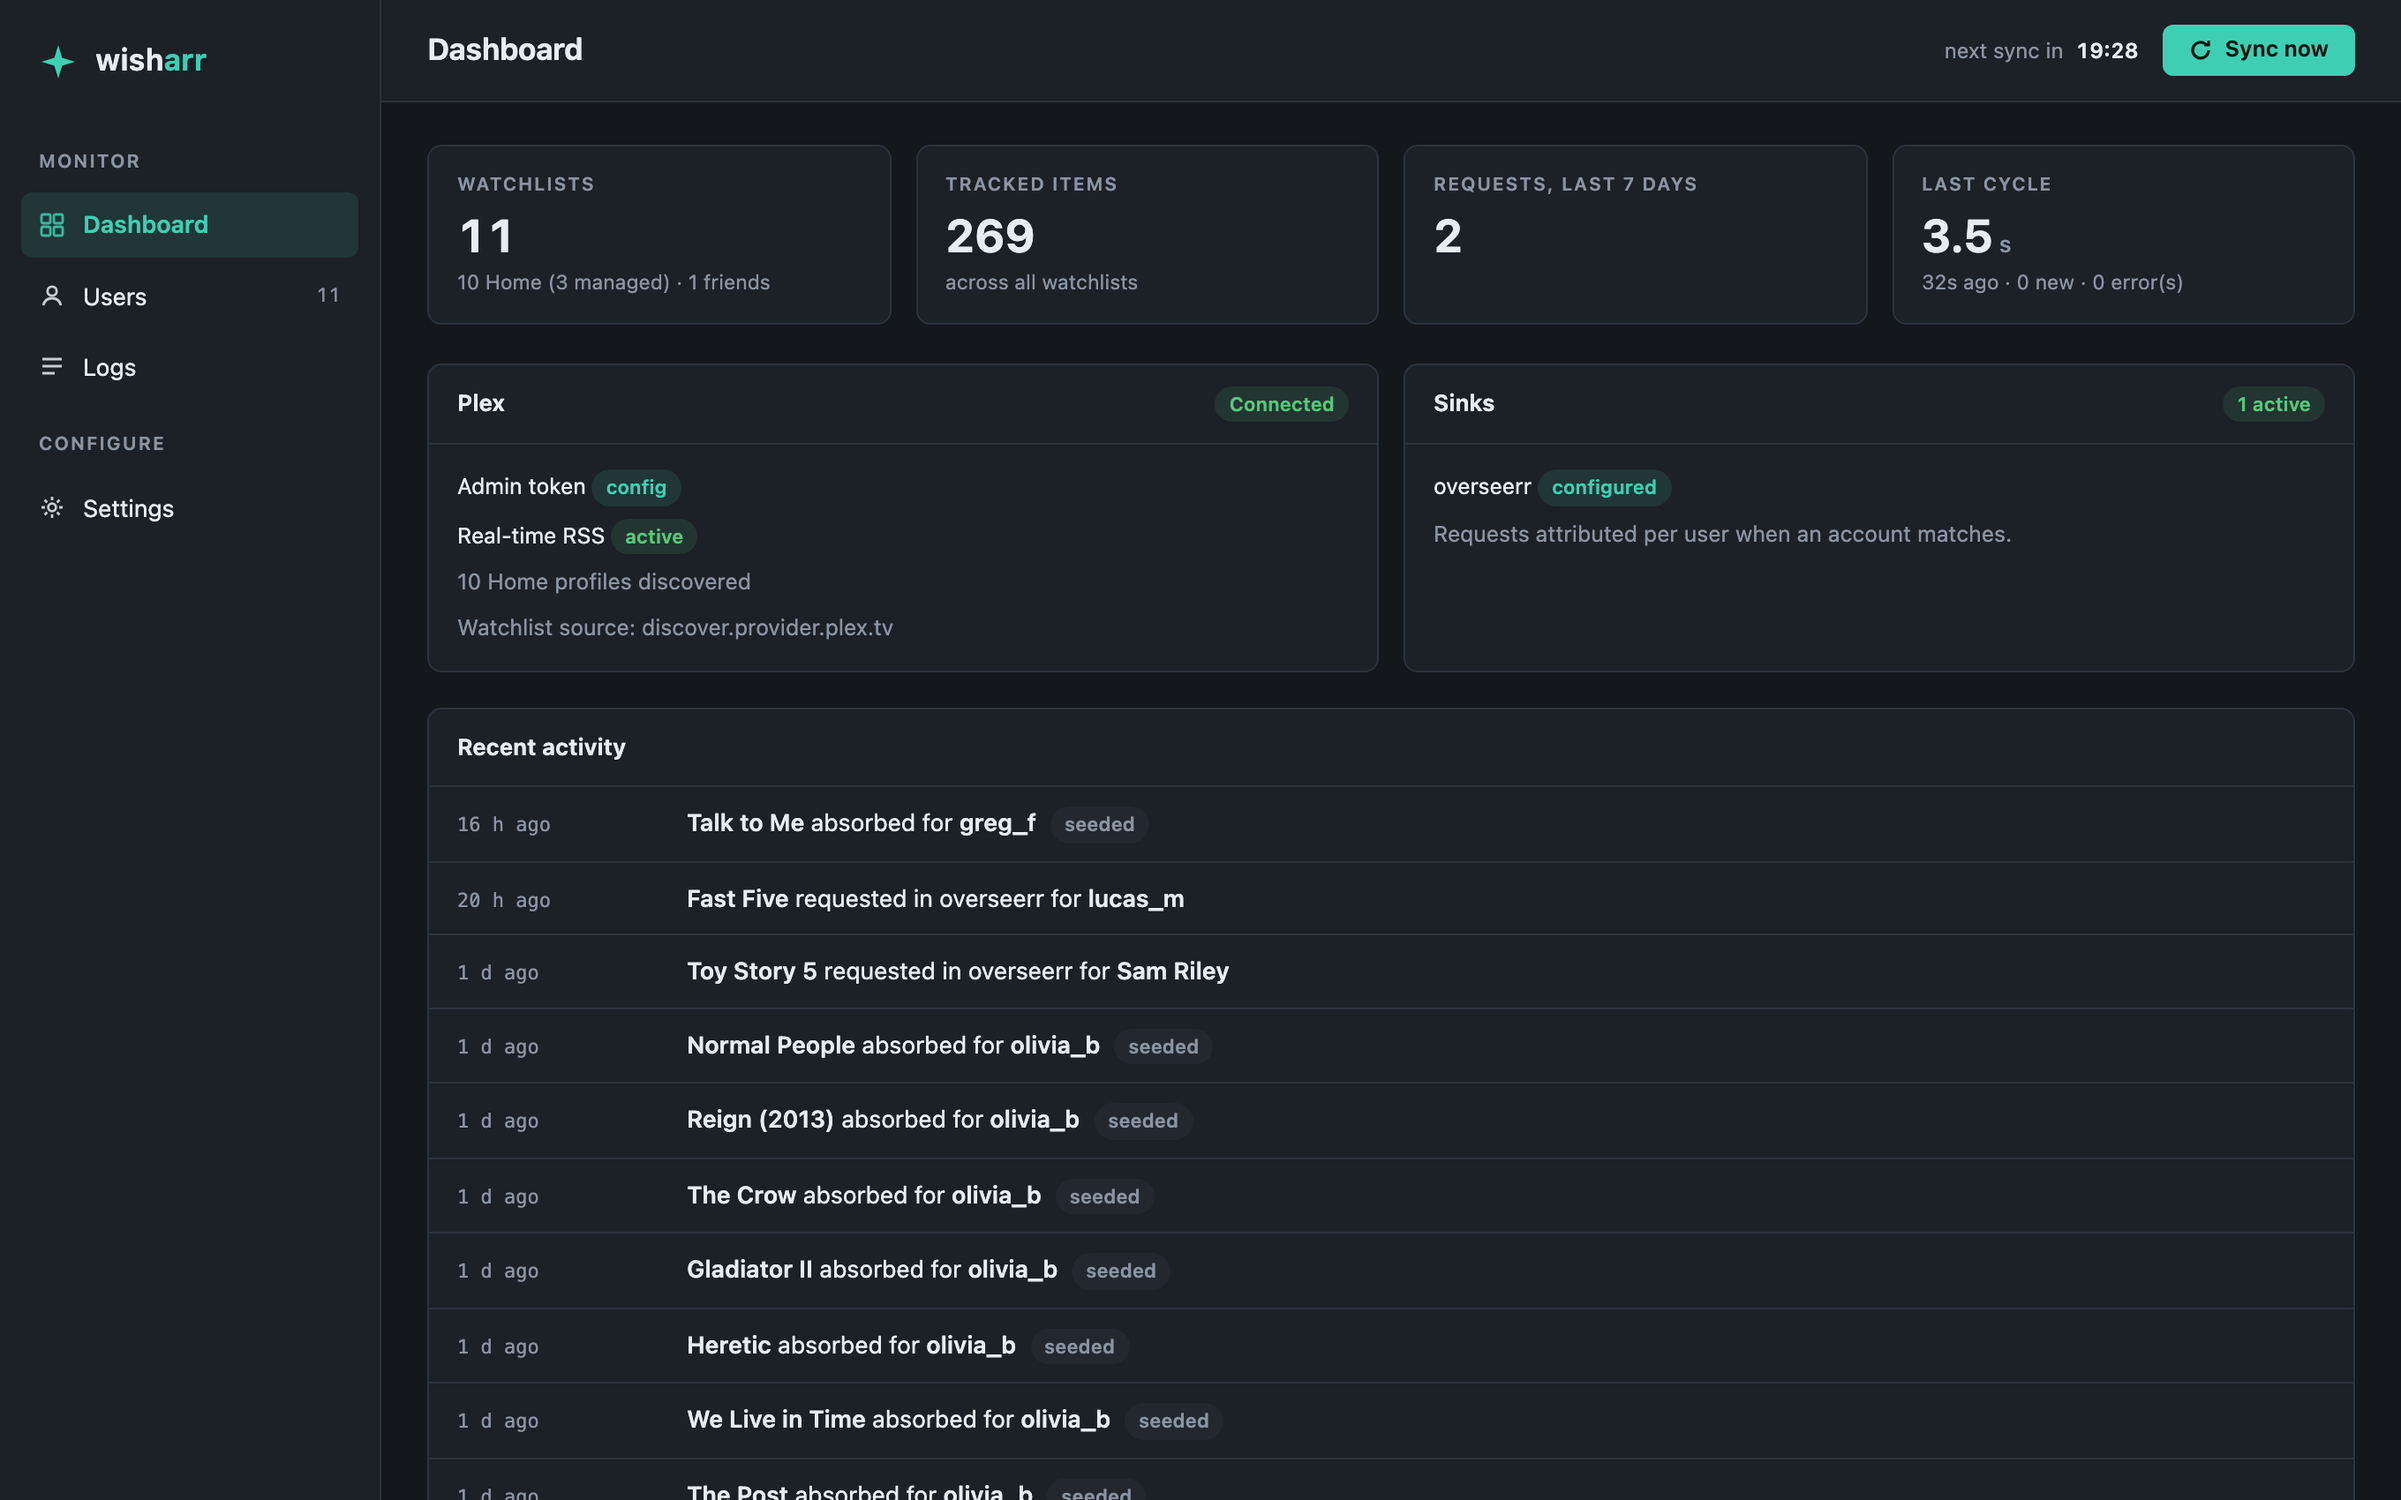
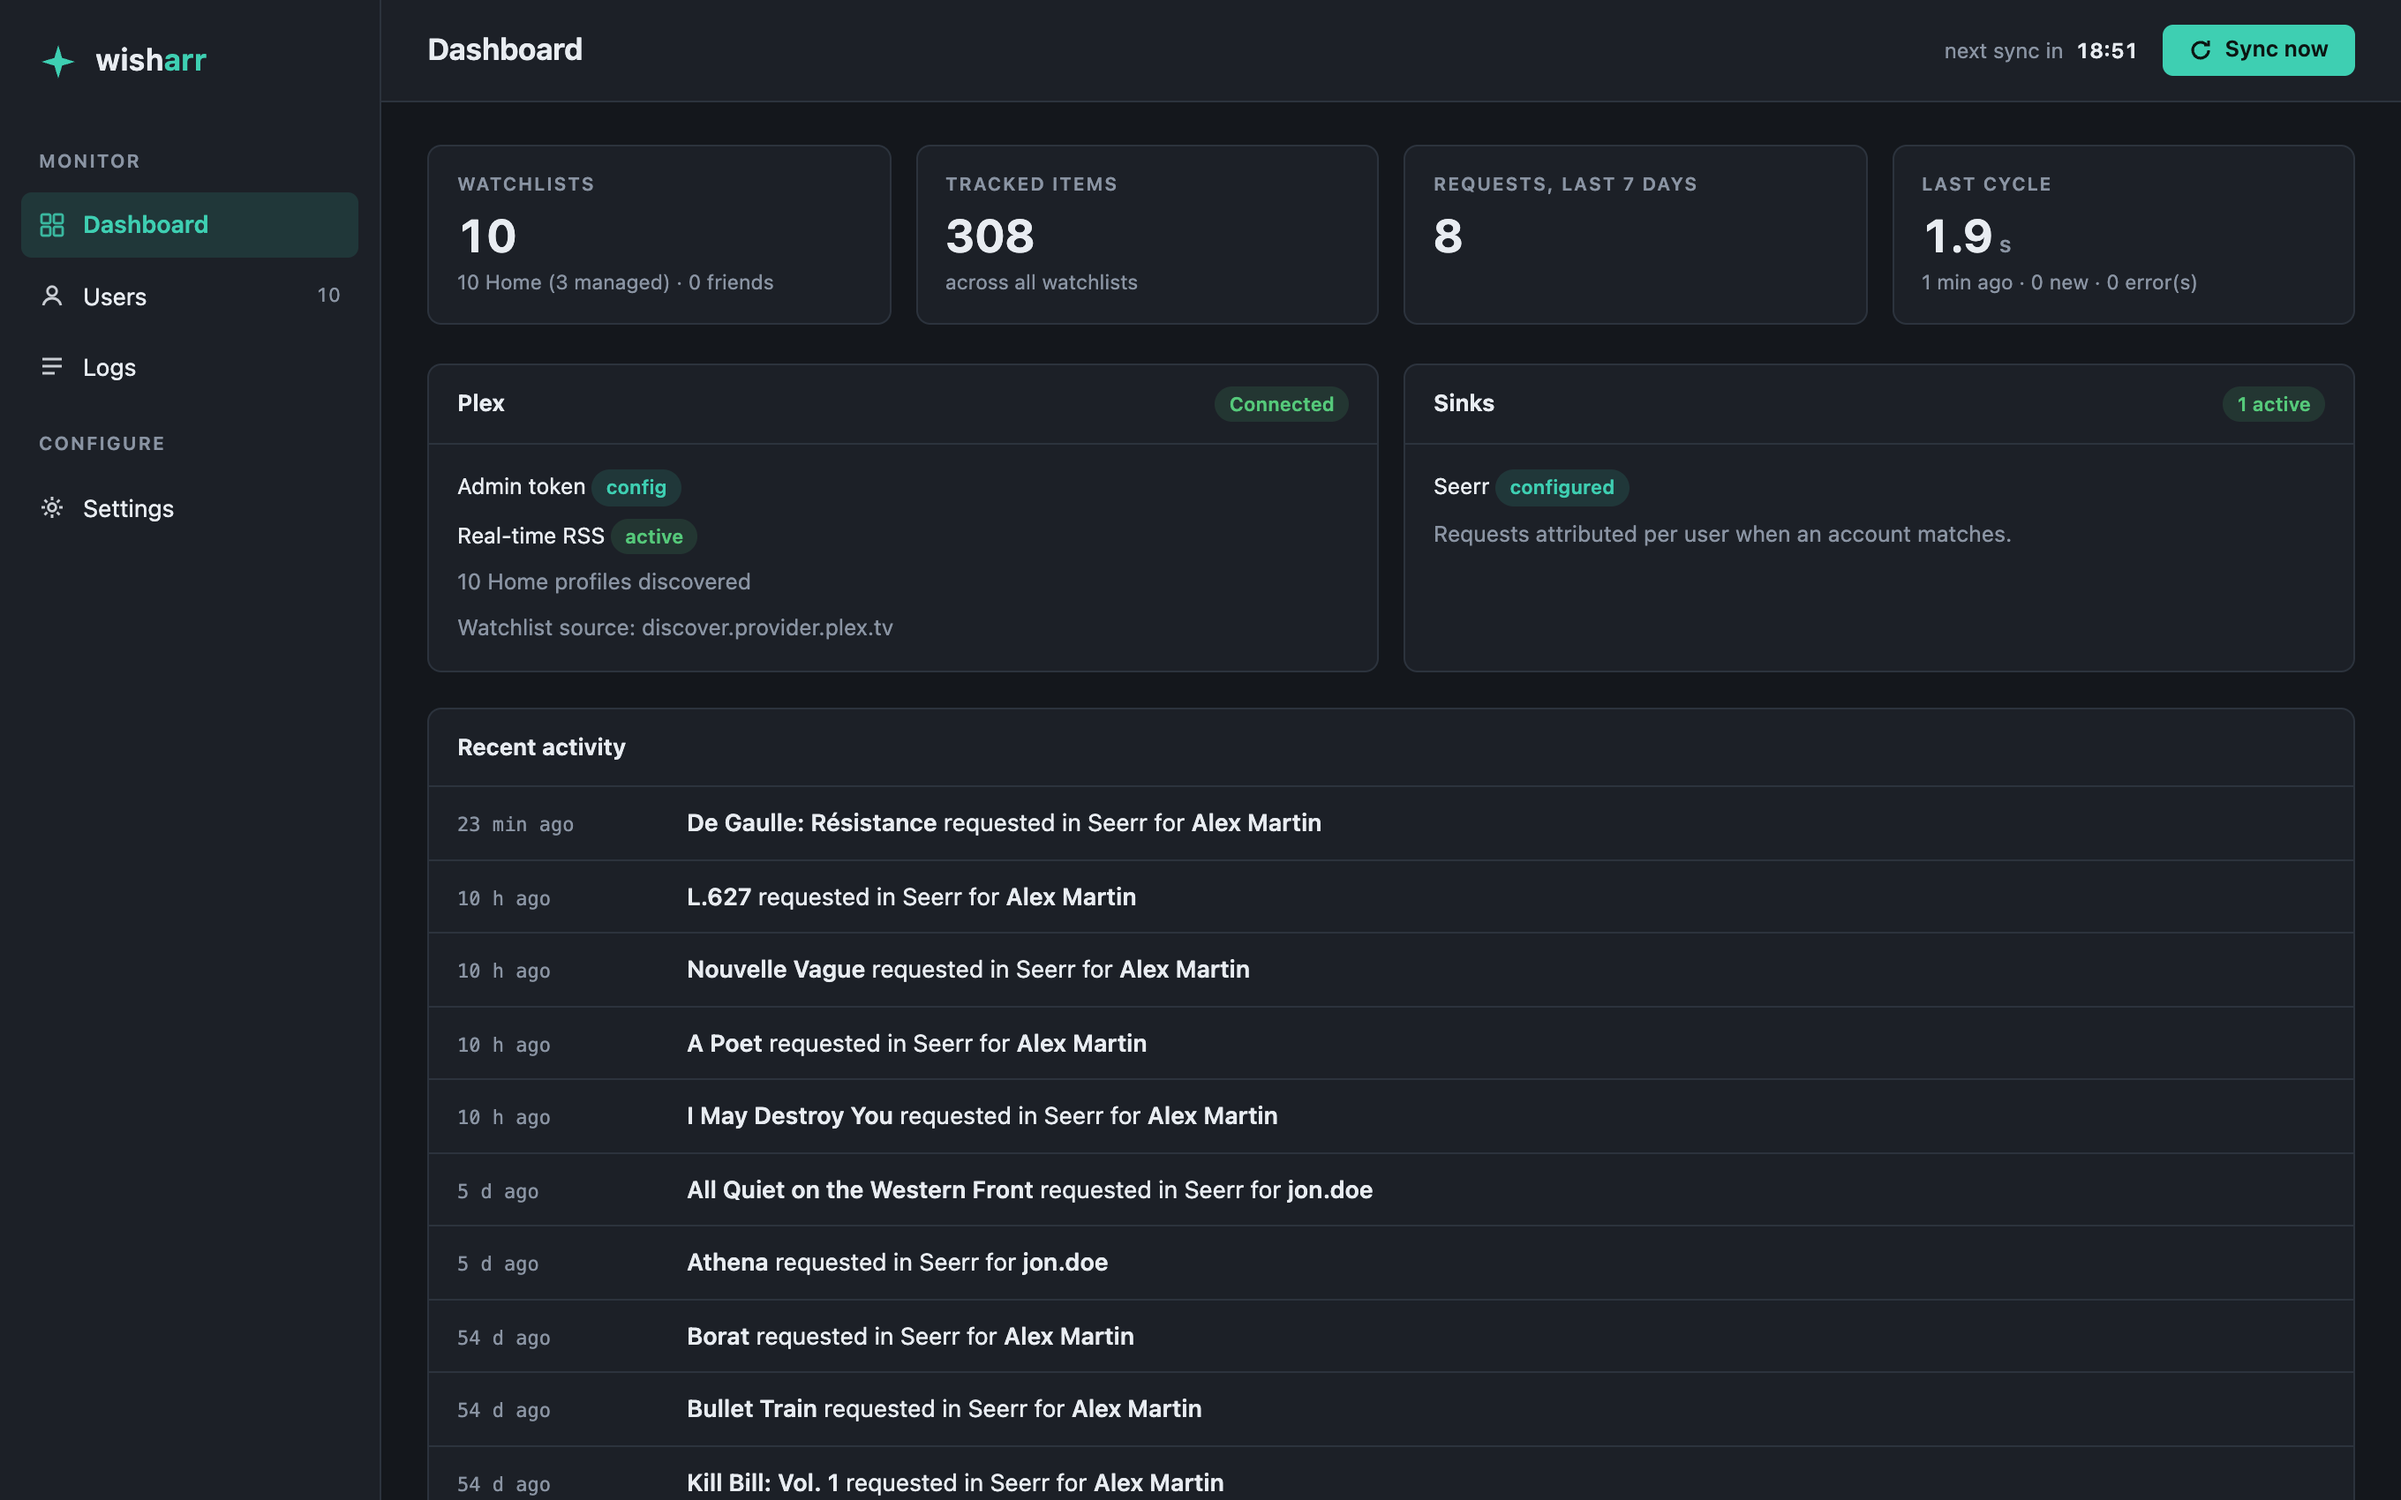
Rewrite README: shorter, updated October 2026 comparison, Seerr screenshots

diff --git a/README.md b/README.md
@@ -2,12 +2,12 @@
 
 [![CI](https://github.com/vnguyen42/wisharr/actions/workflows/ci.yml/badge.svg)](https://github.com/vnguyen42/wisharr/actions/workflows/ci.yml)
 
-Sync Plex watchlists to **Seerr (Overseerr/Jellyseerr), Radarr and Sonarr** — including **Plex Home managed users** and **friends**, with a **single admin token** and zero token copy-pasting, ever.
+Sync Plex watchlists to **Seerr, Radarr and Sonarr**, including **Plex Home managed users** and **friends**, with a **single admin token**. Nobody else has to log in or hand over a token.
 
 ![Dashboard](docs/screenshots/dashboard.png)
 
 <details>
-<summary>More screenshots — Users & Settings</summary>
+<summary>More screenshots: Users and Settings</summary>
 
 ![Users](docs/screenshots/users.png)
 ![Settings](docs/screenshots/settings.png)
@@ -16,13 +16,28 @@ Sync Plex watchlists to **Seerr (Overseerr/Jellyseerr), Radarr and Sonarr** — 
 
 ## Why another watchlist tool?
 
-Every existing bridge breaks on the same wall: Plex doesn't give third-party apps refresh tokens, and per-user tokens expire silently.
+Most watchlist bridges need a Plex token for every user. Plex Home managed users have no plex.tv login, so their watchlists are usually left out.
 
-- **Overseerr/Jellyseerr** built-in sync needs each user to re-login periodically — and Plex Home **managed users can't log in at all** (they have no plex.tv credentials), so their watchlists are simply invisible.
-- **Watchlistarr** covers friends with the owner token, but is dormant and doesn't handle Home managed users.
-- **Radarr/Sonarr** native import lists only see your own account.
+| As of October 2026 | Managed users | Friends | Per-user login | Sends to |
+|---|---|---|---|---|
+| Seerr built-in sync | No | Only users who signed in to Seerr | Yes, once | Seerr |
+| [Pulsarr](https://github.com/jamcalli/Pulsarr) | No | Yes, admin token | No | Radarr, Sonarr |
+| [Watchlistarr](https://github.com/nylonee/watchlistarr) (no release since 2024) | No | Yes, admin token | No | Radarr, Sonarr |
+| Radarr/Sonarr import lists | No | Friends RSS feed, every 6 h, no attribution | No | Radarr, Sonarr |
+| **Wisharr** | **Yes** | **Yes, admin token** | **No** | **Seerr, Radarr, Sonarr** |
 
-Wisharr uses the same API Plex's own clients use to switch profiles: `POST plex.tv/api/home/users/{id}/switch` with your admin token returns a fresh token scoped to the managed user. Minted tokens are cached and **automatically re-minted the moment plex.tv rejects one** — nothing ever expires from the user's point of view, and nothing ever needs manual refreshing. Your admin token is the only real secret, and it stays alive as long as you use Plex normally.
+If you don't need managed users or Seerr, Pulsarr has many more features (routing rules, approvals, notifications).
+
+## How it works
+
+Plex apps switch profiles with `POST plex.tv/api/home/users/{id}/switch`. Wisharr makes the same call with your admin token to get a token for each managed profile, and gets a new one when plex.tv rejects it. Friends' watchlists come from Plex's GraphQL API, also with the admin token only.
+
+New watchlist items become Seerr requests credited to the matching Seerr user, or direct Radarr/Sonarr adds. A local SQLite database remembers what was already sent.
+
+- **Near real-time with Plex Pass:** your watchlist and your friends' watchlist RSS feeds are checked every 60 seconds. Everything else is picked up by the regular sync, every 20 minutes by default.
+- **No request flood on first run:** existing watchlists are recorded but not requested. Only items added afterwards are sent (`sync.seedOnFirstRun`).
+- **Removal sync (opt-in):** when an item leaves every watchlist, Wisharr deletes its Seerr request or unmonitors it in Radarr/Sonarr. It only touches items it added and never deletes files (`sync.removal`).
+- **Web UI on port 9797:** dashboard, users, live logs and settings.
 
 ## Quick start (Docker)
 
@@ -30,51 +45,29 @@ Wisharr uses the same API Plex's own clients use to switch profiles: `POST plex.
 mkdir wisharr && cd wisharr
 curl -LO https://raw.githubusercontent.com/vnguyen42/wisharr/main/docker-compose.example.yml
 curl -Lo config/config.yml --create-dirs https://raw.githubusercontent.com/vnguyen42/wisharr/main/config/config.example.yml
-# put PLEX_TOKEN / OVERSEERR_API_KEY in a .env file, or edit config/config.yml
+# Put PLEX_TOKEN and OVERSEERR_API_KEY (your Seerr API key) in a .env file
 docker compose -f docker-compose.example.yml up -d
 ```
 
-Multi-arch images (amd64 + arm64) are published to `ghcr.io/vnguyen42/wisharr` on every push to main and every release tag. Open **http://localhost:9797** — sinks, sync interval and per-user toggles are all configurable from the web UI.
+Then open http://localhost:9797. Images are multi-arch (amd64, arm64) on `ghcr.io/vnguyen42/wisharr`.
 
-From source instead:
+All options are documented in [`config/config.example.yml`](config/config.example.yml). `${VAR}` references are read from environment variables. If Wisharr runs on the same machine as Plex Media Server, `plex.token` can stay empty: it is read from the local Plex install.
+
+<details>
+<summary>Run from source</summary>
 
 ```bash
 cp config/config.example.yml config/config.yml
 npm install && npm install --prefix web && npm run --prefix web build
-npm run sync        # one-shot
-npm run dev         # scheduled loop + web UI (default: every 20 min)
+npm run sync   # one sync
+npm run dev    # scheduled sync and web UI
 ```
 
-**Plex token auto-detection** — if Wisharr runs on the same machine as your Plex Media Server, you can leave `plex.token` empty: it is auto-detected from the local install (macOS preferences, `Preferences.xml` on Linux/Docker, Windows registry) and validated against plex.tv before use. If detection fails, Wisharr tells you and falls back to the configured token.
+</details>
 
-**First-run behavior** — by default (`sync.seedOnFirstRun: true`), the first time a sink is ever synced — fresh install, or a sink you add to the config months later — Wisharr absorbs the existing watchlist backlog silently: items already on the lists are marked as synced without being requested. Only items added *from then on* generate requests — no 200-request blast into Overseerr on day one. Prefer the opposite? Set `seedOnFirstRun: false` and the whole backlog is pushed on the first sync. `npm run seed` is also available to force-absorb the current state at any time.
+## Security
 
-## How it works
-
-1. `GET plex.tv/api/home/users` — enumerate every profile in your Plex Home (admin token).
-2. For each managed profile, `POST .../switch` mints a fresh user-scoped token. PIN-protected profiles work out of the box — the admin token bypasses profile PINs, so `plex.pins` in the config is rarely needed.
-3. `GET discover.provider.plex.tv/library/sections/watchlist/all` — fetch that user's watchlist; external IDs (TMDB/TVDB/IMDB) resolved per item.
-4. **Friends outside the Home** are covered too (`sync.friends`): their watchlists come from the Plex community GraphQL API using only your admin token — their watchlist visibility must allow friends.
-5. Push to your configured sinks — Overseerr/Jellyseerr requests, or direct Radarr/Sonarr adds. A local SQLite store dedups so items are only pushed once per user per sink.
-
-**Near real-time** — with a Plex Pass, Wisharr generates the watchlist RSS feeds and polls them every `sync.rssIntervalSeconds` (60s default). New activity triggers a full sync cycle immediately instead of waiting for the next poll. Without Plex Pass this is skipped silently and the regular interval applies.
-
-**Removal sync** (`sync.removal`, opt-in) — when an item disappears from every watchlist, Wisharr undoes what it did: the Overseerr request is deleted and the item is unmonitored in Radarr/Sonarr. Only items Wisharr itself pushed are touched — pre-existing backlog is never removed, and files are never deleted. Re-adding the item to a watchlist requests it again.
-
-**Request attribution** — Overseerr requests are credited to the right person: Wisharr matches each Plex Home profile against Overseerr's user list (by Plex account id first, display name as fallback), so request history shows who wanted what. Plex users with no Overseerr account — managed users typically, or friends never imported — fall back to the API key owner, with a one-time log line naming them.
-
-> **Known limitation** — requests created through the Overseerr API key are always auto-approved, regardless of the target user's permissions (verified against Overseerr 1.33.x). If you rely on Overseerr's approval workflow, be aware that watchlist-driven requests bypass it. Jellyseerr (a fork) behaves identically and is fully compatible with Wisharr — same duplicate handling, same user matching fields. [Seerr](https://github.com/seerr-team/seerr), the merged successor of both, is supported through the same `overseerr` sink (verified against Seerr 3.5.0).
-
-## Web UI
-
-Wisharr ships a built-in web UI on port **9797** (set `ui.port`, or `ui.enabled: false` to turn it off):
-
-- **Dashboard** — sink health, tracked items, request counts, recent activity, next-sync countdown and a Sync-now button.
-- **Users** — every Plex Home profile with its type, watchlist size, Seerr account mapping, token state, and a per-profile sync toggle.
-- **Logs** — live log tail over SSE with level filters.
-- **Settings** — sync interval and behavior toggles (saved back to `config.yml`, comments preserved), plus connection tests for Plex and every sink. The Seerr sink keeps the `sinks.overseerr` config key, so existing configs keep working.
-
-Authentication is off by default — either keep the port LAN-only, or enable HTTP Basic auth:
+The web UI has no login by default, and its API can read your Plex admin token and your Seerr/Radarr/Sonarr API keys. Keep port 9797 on your local network, or turn on basic auth:
 
 ```yaml
 ui:
@@ -83,21 +76,15 @@ ui:
     password: ${WISHARR_PASSWORD}
 ```
 
-Two more notes for anything beyond a trusted LAN: bind the port locally (`127.0.0.1:9797`) or put a reverse proxy with auth in front — the API holds your Plex admin token and sink API keys. And treat the `data/` volume (backups included) as sensitive: it caches live plex.tv tokens for your Home profiles.
+The `data/` folder stores Plex tokens for your Home profiles. Protect it and its backups like a password.
 
-One caveat for self-hosters: keep a single Wisharr process per database file. In particular, don't run a host-side `npm run sync` against the same `data/` a Docker container is using — SQLite locking is not reliable across the Docker Desktop file-sharing boundary.
+## Limitations
 
-## Configuration
+- Seerr auto-approves requests made with its API key, so watchlist requests skip Seerr's approval workflow (tested on Overseerr 1.33).
+- Users without a Seerr account (usually managed users) get their requests credited to the API key owner.
+- Run one Wisharr per database file.
 
-See [`config/config.example.yml`](config/config.example.yml). `${VAR}` references in the YAML are expanded from environment variables so secrets can stay out of the file.
-
-## Roadmap
-
-- [ ] Friends' watchlists via the Plex community GraphQL API (owner token only, "Friends Only" visibility)
-- [ ] Plex Pass RSS feeds as a near-real-time trigger between polls
-- [ ] Removal sync (item left the watchlist → optional unmonitor)
-- [ ] Minimal web UI for config & status
-- [ ] Multi-arch Docker images (amd64/arm64) published on release
+Overseerr and Jellyseerr use the same API as Seerr and work too.
 
 ## License
 
